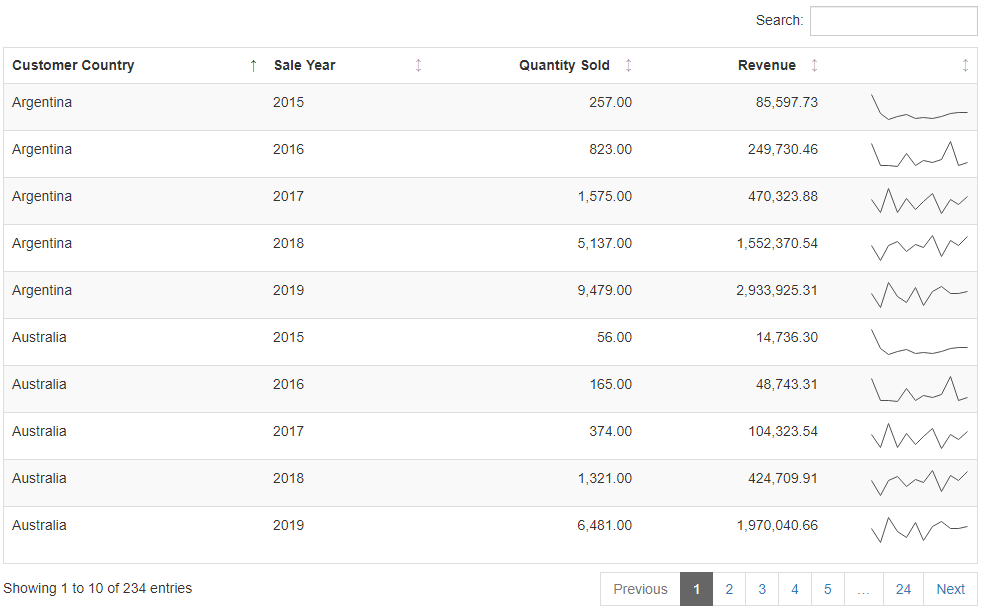
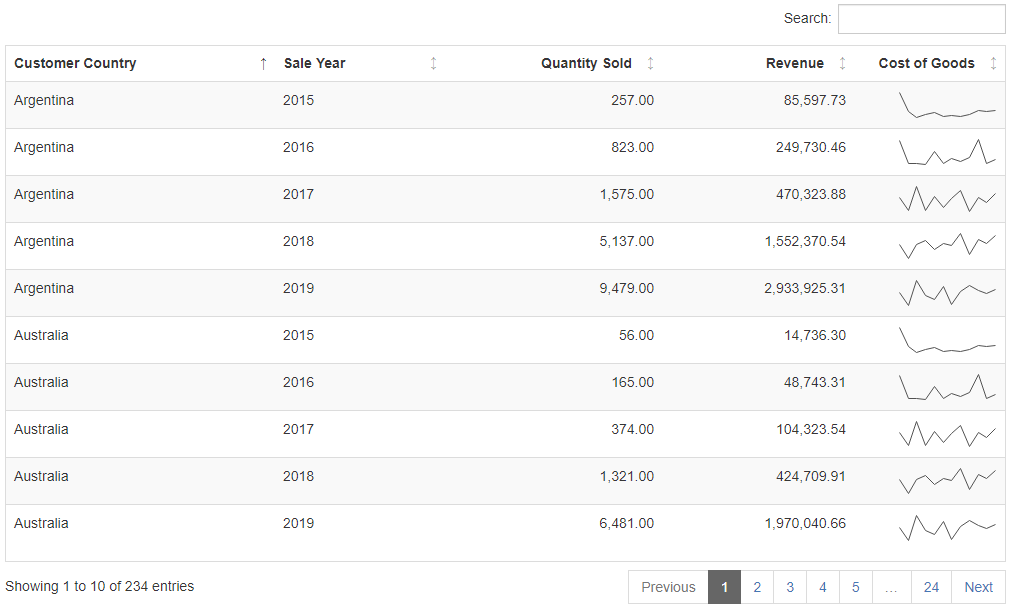
updates to add sparkline column header and update README

diff --git a/com.ibi.sparktables/com.ibi.sparktables.js b/com.ibi.sparktables/com.ibi.sparktables.js
@@ -178,7 +178,7 @@
             //add sparkline column
             if (typeof dataBuckets.sparkline_date !== 'undefined') {
                 titleJSON.push({
-                    mData: "col" + columnIndex, title: ' ', className: "dt-right dt-by sparkline-col-title", width: "110px"
+                    mData: "col" + columnIndex, title: ' ', className: "dt-right dt-by sparkline-col-title", width: "110px", title: dataBuckets.sparkline_value.title
                 });
                 //titleJSON.push({ mData: "col" + columnIndex, title: ' ', className: "dt-right dt-by sparkline-col-title", render: $.fn.dataTable.render.number(',', '.', 2, ''), defaultContent: '0.00' });
                 numberOfBys++;

diff --git a/com.ibi.sparktables/README.md b/com.ibi.sparktables/README.md
@@ -62,7 +62,7 @@ To configure or customize your extension edit "properties" object in properties.
 			"color": "#505050",
 			"show_min": false,
 			"show_max": false,
-			"type":  "line"
+			"type":  "line" // can be either "line" or "bar"
      
 		}
 	}
